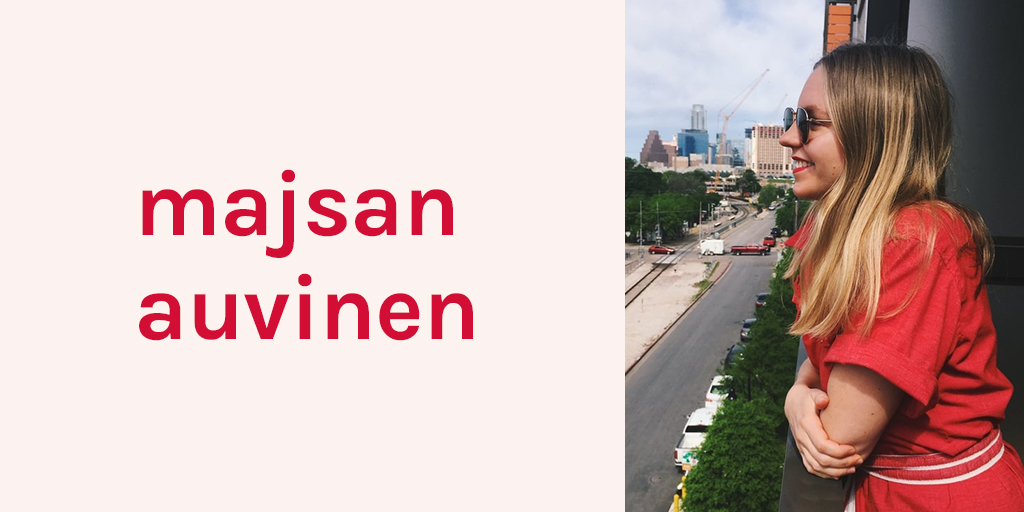
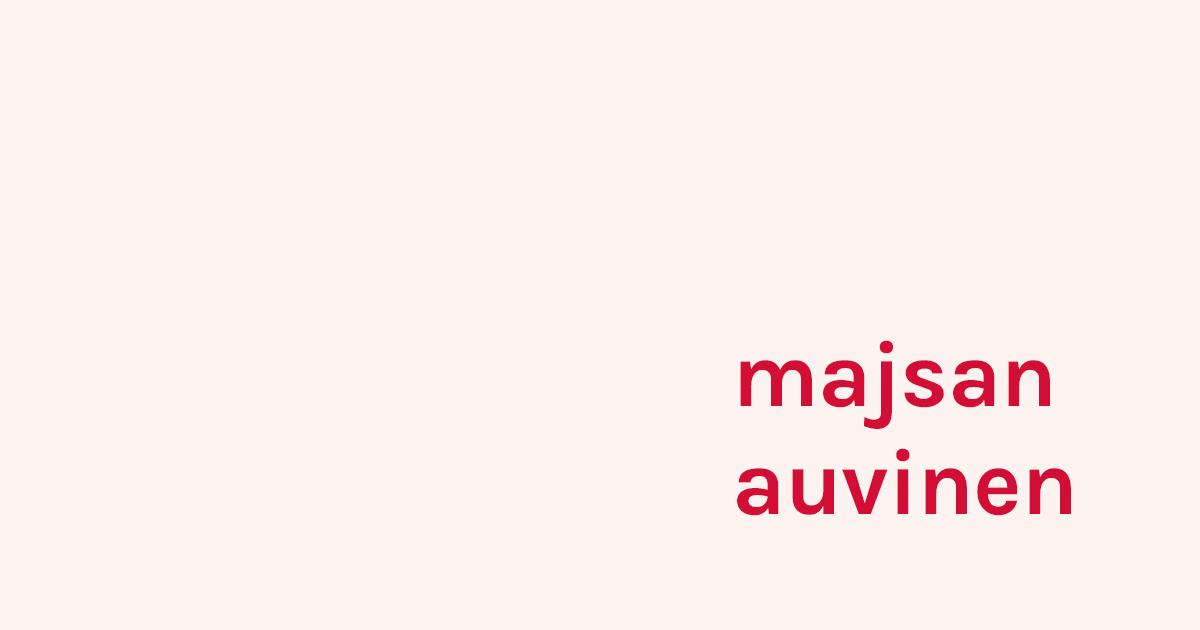
update copy

diff --git a/src/scss/components/home/_HeroSection.scss b/src/scss/components/home/_HeroSection.scss
@@ -31,7 +31,7 @@
   display: flex;
   justify-content: center;
   flex-direction: column;
-  padding: 0 $global-gutter;
+  padding: 0 305px 0 $global-gutter;
   position: relative;
 
   &.hasScrolled {
@@ -103,6 +103,7 @@
     }
 
     .title {
+
       span {  
         &::after {
           @include size(220px);
